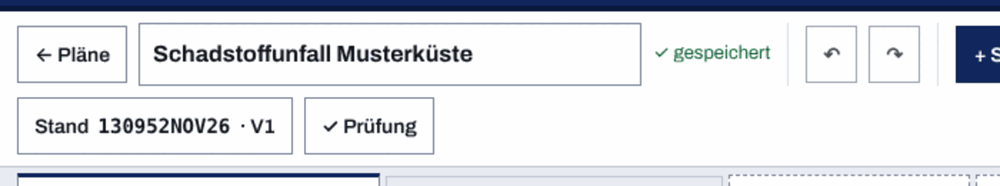
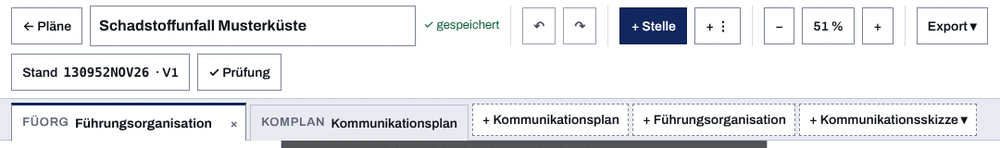
docs(audits): Review-Runde 1, Mobile UI und weitere Zwischenstände
Claude-Session: https://claude.ai/code/session_01ECm9xShsLqD6xfWouSXhNe

diff --git a/docs/audits/runde-1/feldtauglichkeit.md b/docs/audits/runde-1/feldtauglichkeit.md
@@ -1,0 +1,132 @@
+# Review-Runde 1: Feldtauglichkeit (Tablet in Führungsstelle und Führungsfahrzeug)
+
+- Reviewer-Skill: `thw-field-user-reviewer` (Kürzel FT)
+- Prüfgegenstand: komplan.app, main b37b468, lokal per vite preview
+- Datum: 2026-11-13
+- Viewports: iPad quer 1180×820 und iPad hoch 820×1180, jeweils `hasTouch`, deviceScaleFactor 1 (Chromium per Playwright). Touch-Gesten (Wischen, Zwei-Finger-Spreizen, Drei-Finger, langes Drücken, Ziehen) über CDP `Input.dispatchTouchEvent`. Modi Standard und Feld.
+- Durchgespielte Abläufe: Ablauf 1 (Vorlage „Schadstoffunfall an der Küste“, FüOrg ansehen, Stelle per Tippen wählen, Eigenschaften ansehen, Umhängen per Ziehen in der Gliederung, Kontextmenü), Ablauf 3 (Skizze „Fb Fü 77 Skizze 1“ über „+ Kommunikationsskizze ▾“, Zoomen, Schwenken, Element wählen und verschieben, Verbinder ziehen, Rückgängig). Ergänzend Quelltext gelesen (`src/app/zeichenflaeche.tsx`, `skizzen-flaeche.tsx`, `gliederung.tsx`, `editor.tsx`, `stil.css`), um Beobachtungen zu erklären.
+- Aufgaben erledigt: Ansehen FüOrg/Komplan **ja**; kleine Änderung an Stelle (Text, Kontakt) **ja**; Stelle umhängen, löschen, duplizieren per Touch **nein**; Skizze ansehen und bearbeiten per Touch **mit Schwierigkeiten** (Element verschieben ja, Blatt verschieben nein).
+- Mentales Modell des Helfers: „Wie eine Karten-App: mit einem Finger das Blatt schieben, mit zwei Fingern zoomen, lange drücken für mehr Möglichkeiten, Dinge mit dem Finger an eine andere Stelle ziehen.“ Die App ist dagegen auf Maus und Tastatur gebaut (Rechtsklick, Strg+Mausrad, Alt/Mittelklick zum Schwenken, Entf, HTML-Ziehen).
+
+Hinweis zur Belastbarkeit: Die Emulation ist Chromium, nicht Safari auf iPadOS. Wo das Verhalten auf echtem iPad abweichen kann, ist das beim Befund vermerkt („Nicht verifiziert“).
+
+## P0
+
+Keine. Hauptnutzung ist laut Auftrag Desktop; am Tablet bleibt Ansehen und Ändern von Texten und Kontakten möglich.
+
+## P1
+
+### FT-01 Skizzenblatt lässt sich per Touch nicht verschieben
+
+- **Evidenz:** Beobachtet
+- **Ansicht/Ablauf:** Reiter „Skizze“, Skizzenfläche (Ablauf 3), iPad quer und hoch
+- **Beobachtung:** Nach Vergrößern auf 100 % ist nur ein Ausschnitt des Blatts sichtbar. Ein-Finger-Wischen auf freier Fläche zieht einen Auswahlrahmen auf, Zwei- und Drei-Finger-Wischen bewirken nichts (`scrollLeft/scrollTop` bleiben 0). Wischen auf einem Element verschiebt das Element. Schwenken ist laut Code nur mit Mittelklick oder Alt+Linksklick möglich; die Fläche hat `touch-action: none`, Bildlaufleisten stehen nicht zur Verfügung (Breite 0).
+- **Auswirkung im Einsatz:** Wer auf dem Tablet in einer Skizze einen Kasten vergrößert betrachtet oder bearbeiten will, kommt an den Rest des Blatts nicht heran. Einziger Ausweg: wieder verkleinern (siehe FT-02). Versuche zu schwenken verschieben stattdessen versehentlich Elemente.
+- **Vorschlag:** Zwei-Finger-Wischen schwenkt immer; zusätzlich Ein-Finger-Wischen auf leerer Fläche schwenkt (Auswahlrahmen dann nur über eigenes Werkzeug oder langes Drücken). Alternativ sichtbare Schwenk-Schaltfläche („Hand“).
+- **Nachtest:** iPad, Skizze auf 100 %, rechten unteren Kasten erreichen, ohne dass ein Element seine Lage ändert.
+
+![Skizzenfläche im iPad quer bei 100 %](bilder/ft-01-skizzenflaeche.png)
+
+### FT-02 Kein Zoomen mit zwei Fingern; Zeichenblatt im Querformat sehr klein
+
+- **Evidenz:** Beobachtet
+- **Ansicht/Ablauf:** FüOrg-Zeichenfläche und Skizzenfläche, iPad quer
+- **Beobachtung:** Zwei-Finger-Spreizen ändert den Zoom nicht (bleibt 100 %), auf der FüOrg-Fläche verschiebt es stattdessen das Blatt; Browser-Zoom ist durch `touch-action: none` ebenfalls gesperrt (visualViewport.scale 1). Zoom geht nur über die Knöpfe −/+ (33×40 px). In der Skizze bleibt im iPad quer für das Blatt ein Bereich von 524×243 px; Kopf (88), Anzeige-Schalter, Werkzeugleiste (109, zwei Zeilen), Reiterleiste (85, zwei Zeilen) und Skizzen-Werkzeuge (245, vier Zeilen) belegen den Rest. „Einpassen“ (Tippen auf „51 %“) ergibt 34 %, dabei ist die Skizze nicht mehr lesbar.
+- **Auswirkung im Einsatz:** Ansehen einer Skizze auf dem Tablet im Fahrzeug ist mühsam: entweder unleserlich klein oder (wegen FT-01) nur ein fester Ausschnitt. Gerade das Zoomen mit zwei Fingern versucht jeder zuerst.
+- **Vorschlag:** Zwei-Finger-Zoom um den Fingermittelpunkt in beiden Flächen. Auf Tablets Skizzen-Werkzeuge einklappbar oder einzeilig mit Überlauf-Menü; Gliederung und Eigenschaften ausblendbar, damit das Blatt den Bildschirm nutzen kann.
+- **Nachtest:** iPad quer, Skizze 1 mit zwei Fingern auf lesbare Größe ziehen; sichtbarer Blattbereich mindestens etwa halbe Bildschirmhöhe.
+
+![Skizze eingepasst bei 34 %](bilder/ft-02-einpassen.png)
+
+### FT-03 Stelle löschen und duplizieren nur per Rechtsklick oder Taste
+
+- **Evidenz:** Beobachtet (Emulation); auf iPadOS-Safari wahrscheinlich, nicht verifiziert
+- **Ansicht/Ablauf:** FüOrg/Komplan, Stelle gewählt (Ablauf 1 und 5)
+- **Beobachtung:** „Unterstellte Stelle anlegen / Duplizieren / Kommunikationsskizze erzeugen / Löschen…“ gibt es nur im Kontextmenü der Zeichenfläche (Rechtsklick). Langes Drücken (1,2 s) auf eine Stelle öffnet in der Emulation kein Menü. In der Gliederung gibt es gar kein Kontextmenü. Im Eigenschaften-Bereich gibt es keinen Knopf „Stelle löschen“ oder „Duplizieren“ (alle Knöpfe geprüft, auch in aufgeklappten Gruppen). Die Hilfe unter der Gliederung nennt nur Tasten (Entf, Strg+D). Safari auf iPadOS löst bei langem Drücken nach meinem Kenntnisstand kein `contextmenu`-Ereignis aus.
+- **Auswirkung im Einsatz:** Am Tablet ohne Tastatur lässt sich eine falsch angelegte Stelle nicht entfernen. „Kommunikationsskizze erzeugen“ ist über „+ Kommunikationsskizze ▾ → Aus gewählter Stelle erzeugen“ erreichbar, Löschen und Duplizieren nicht.
+- **Vorschlag:** Sichtbare Knöpfe „Duplizieren“ und „Löschen…“ im Kopf der Stellen-Eigenschaften (gleiche Rückfrage wie heute); zusätzlich langes Drücken (ca. 500 ms) auf Stelle in Gliederung und Blatt öffnet das Kontextmenü.
+- **Nachtest:** iPad ohne Tastatur: Stelle mit Unterstellten löschen, Rückfrage beantworten, mit ↶ zurückholen.
+
+![Kontextmenü nur per Rechtsklick erreichbar](bilder/ft-03-kontextmenue.png)
+
+### FT-04 Umhängen per Ziehen in der Gliederung geht per Touch nicht
+
+- **Evidenz:** Beobachtet (Emulation); Verhalten auf iPadOS nicht verifiziert
+- **Ansicht/Ablauf:** Gliederung links, Ablauf 1 „umhängen per Ziehen“
+- **Beobachtung:** Die Gliederung nutzt HTML-Ziehen (`draggable`). Touch-Ziehen einer Zeile (mit und ohne 0,8 s Halten) auf eine andere Zeile ändert den Baum nicht; Wischen scrollt die Liste. Tastatur-Alternative Alt+↑/↓ verschiebt nur innerhalb der Geschwister, ein Wechsel der übergeordneten Stelle ist ohne Ziehen nicht möglich. Ebenso geht Ziehen einer Stelle aus der Gliederung auf die Skizzenfläche nur mit HTML-Ziehen (Ersatz über Werkzeug „Kasten“ vorhanden).
+- **Auswirkung im Einsatz:** Lageänderung (Einheit wechselt Abschnitt) kann am Tablet nicht nachgezogen werden, es sei denn Stelle neu anlegen und alte löschen, was wegen FT-03 auch nicht geht.
+- **Vorschlag:** Feld „Untersteht“ (Auswahlliste der möglichen übergeordneten Stellen) und Knöpfe „nach oben/unten“ in den Stellen-Eigenschaften; Touch-Ziehen erst nach langem Drücken mit deutlicher Zielmarkierung.
+- **Nachtest:** iPad: „EAL Heros Musterinsel 10“ unter „ELO Beispielkreis“ hängen, ohne Tastatur.
+
+## P2
+
+### FT-05 Ports und Griffe in der Skizze sind 6 bis 7 px groß
+
+- **Evidenz:** Beobachtet (Maße); Trefferquote auf iPad nicht verifiziert
+- **Ansicht/Ablauf:** Skizze, Element gewählt, Verbinder ziehen, Größe ändern
+- **Beobachtung:** Die vier Anschlusspunkte (Ports) messen 7×7 px, die acht Größengriffe 6×6 px, unabhängig vom Zoom und auch im Feld-Modus. Ports erscheinen nur bei Mausüberfahrt oder nach Auswahl. In Chromium traf ein 9 px daneben aufgesetzter Finger den Port trotzdem (Touch-Korrektur des Browsers); Safari korrigiert so nach meiner Kenntnis nicht. Daneben aufgesetzt verschiebt der Finger das Element statt einen Verbinder zu ziehen. Verbinder-Trefferfläche: 6 px.
+- **Auswirkung im Einsatz:** Verbinder setzen und Größe ändern mit dem Finger wird zum Zielspiel, Fehlgriffe verschieben Kästen.
+- **Vorschlag:** Bei Touch-Bedienung (pointerType „touch“) Trefferflächen für Ports, Griffe, Knick und Verbinder auf mindestens 32–44 px erweitern (unsichtbarer Rand reicht), sichtbare Punkte etwas größer.
+- **Nachtest:** iPad, zehn Verbinder zwischen Kästen ziehen; kein Element darf dabei ungewollt verschoben werden.
+
+### FT-06 Hochformat: Eigenschaften im unteren Drittel, Bildschirmtastatur verdeckt sie
+
+- **Evidenz:** Beobachtet (Lage); Tastatur wahrscheinlich, nicht verifiziert
+- **Ansicht/Ablauf:** iPad hoch, Stelle wählen, Kontakt oder Rufgruppe eintragen
+- **Beobachtung:** Die Seite selbst scrollt nicht (Dokument = 1180 px). Eigenschaften stehen in einem eigenen Rollbereich von 339 px Höhe ab y=841; nach Tippen auf eine Stelle sieht man nur Zeichen, Beschriftung und Nummer. „Erreichbarkeit“ und „Funk“ liegen weiter unten im kleinen Rollbereich. Wischen über die Zeichenfläche scrollt nichts (`touch-action: none`). Die iPad-Bildschirmtastatur im Hochformat ist etwa so hoch wie dieser Bereich.
+- **Auswirkung im Einsatz:** Beim Eintippen einer Telefonnummer ist das Feld voraussichtlich ganz oder teilweise verdeckt; man sieht nicht, was man tippt.
+- **Vorschlag:** Im Hochformat Eigenschaften als ausklappbares Blatt über größerer Höhe oder als eigene Ansicht; beim Fokussieren das Feld in den sichtbaren Bereich über der Tastatur bringen (visualViewport berücksichtigen).
+- **Nachtest:** Echtes iPad hoch, Telefonnummer bei einer Stelle eintragen; Feld und Eingabe bleiben sichtbar.
+
+![iPad hoch: Eigenschaften unten in 339 px](bilder/ft-04-hochformat.png)
+
+### FT-07 Bedienhinweise sprechen nur Tastatur und Maus an
+
+- **Evidenz:** Beobachtet
+- **Ansicht/Ablauf:** Gliederung (Tastenhilfe), Meldung nach Löschen, Titel der Knöpfe
+- **Beobachtung:** Tastenhilfe: „Einfg … Entf: löschen · Strg+D … Alt+↑/↓ … Ziehen: umhängen“. Nach dem Löschen: „Gelöscht. Strg+Z macht es rückgängig.“ Die Ausrichtungsknöpfe der Skizze (⇤ ↔ ⇥ ⤒ ↕ ⤓ ⋯ ⋮) erklären sich nur über `title`, also Mausüberfahrt; die Reiter lassen sich nur per Doppelklick umbenennen.
+- **Auswirkung im Einsatz:** Am Tablet ohne Tastatur wirken die Hinweise wie Bedienung, die es nicht gibt; die Symbolknöpfe sind ohne Maus nicht erklärbar.
+- **Vorschlag:** Hinweise geräteabhängig formulieren („↶ oben macht es rückgängig“); Symbolknöpfe mit Kurztext oder eine Gruppe „Ausrichten ▾“ mit beschrifteten Einträgen; Umbenennen auch über Eigenschaften („Name der Ansicht“ gibt es bei Skizzen schon).
+- **Nachtest:** Neue Nutzerin am Tablet richtet drei Kästen links aus und benennt eine Ansicht um, ohne Hilfe.
+
+### FT-08 Kleine Bedienelemente in Gliederung und Zoomleiste
+
+- **Evidenz:** Beobachtet
+- **Ansicht/Ablauf:** Gliederung, Werkzeugleiste, Reiterleiste
+- **Beobachtung:** Auf-/Zuklappen in der Gliederung 26×26 px, Zoom −/+ 33×40 px, Rückgängig/Wiederholen 36×40 px, Ausrichtungsknöpfe 24–37×36 px, „×“ zum Löschen einer Ansicht 25×38 px direkt am aktiven Reiter (mit Rückfrage). Im Feld-Modus wachsen Text-Knöpfe auf 40 px Höhe, die genannten bleiben klein.
+- **Auswirkung im Einsatz:** Im fahrenden Fahrzeug oder mit kalten Fingern Fehltipper, besonders zwischen Reiter und „×“ und bei −/+.
+- **Vorschlag:** Mindestens 44×44 px Trefferfläche für alle Bedienelemente bei Touch (Medienabfrage `pointer: coarse`), auch außerhalb des Feld-Modus.
+- **Nachtest:** Maße unter `pointer: coarse` messen.
+
+## P3
+
+### FT-09 Kontextmenü schließt nur per Maus-Verlassen oder Tippen daneben, „51 %“ ist ein versteckter Einpassen-Knopf
+
+- **Evidenz:** Beobachtet
+- **Ansicht/Ablauf:** FüOrg-Zeichenfläche
+- **Beobachtung:** Das Kontextmenü (wo erreichbar, z. B. iPad mit Trackpad) schließt bei `mouseleave`, Tippen daneben schließt es ebenfalls; es wird an Klickposition `fixed` gesetzt und kann am rechten Rand im Hochformat über den Bildschirm hinausragen (Code, nicht nachgestellt). Der Zoom-Anzeigewert „51 %“ ist zugleich der Knopf „Auf Fläche einpassen“, nur per `title` erklärt.
+- **Auswirkung im Einsatz:** Geringe Verwirrung; Einpassen wird am Tablet kaum gefunden.
+- **Vorschlag:** Menü an Bildschirmrand begrenzen; Einpassen-Knopf beschriften („Ganzes Blatt“).
+- **Nachtest:** Rechtsklick auf Stelle ganz rechts im Hochformat; neue Nutzer finden „Ganzes Blatt“.
+
+## Was gut funktioniert
+
+- Ein-Finger-Wischen auf der FüOrg-Zeichenfläche verschiebt das Blatt; Tippen auf eine Stelle wählt sie und markiert sie in Gliederung und Blatt. Nicht beim Umbau entfernen.
+- Kasten in der Skizze lässt sich per Finger verschieben, mit ↶ zurücknehmen; Rasterfang hilft bei grober Fingerbedienung.
+- „+ Kommunikationsskizze ▾ → Aus gewählter Stelle erzeugen“ ist ein touch-tauglicher Weg zur Skizze.
+- Kontaktfelder haben `inputMode` tel/email, das iPad zeigt damit die Zifferntastatur.
+- Speicherstand „✓ gespeichert“ ist neben dem Plannamen immer sichtbar; Löschen fragt bei Unterstellten nach.
+
+## Comprehension check (Tablet)
+
+- Orientierung: verstanden
+- Nächste Aktion: unsicher (Löschen, Umhängen, Schwenken ohne sichtbaren Weg)
+- Systemstatus: verstanden
+- Fehlerbehebung: unsicher (Rückgängig-Knopf vorhanden, Hinweis nennt Strg+Z)
+- Feldtauglichkeit: eingeschränkt
+
+## Nicht geprüft
+
+- Echte Geräte: Safari auf iPadOS (Kontextmenü bei langem Drücken, HTML-Ziehen, Touch-Korrektur), echte Bildschirmtastatur, Apple Pencil, Hardware-Tastatur am iPad.
+- Handschuhbedienung, Sonnenlicht und Vibration im Fahrzeug.
+- Teil-Link, Export und Druck am Tablet (Datei-Download in Safari).

diff --git a/docs/audits/runde-1/mobile-ui.md b/docs/audits/runde-1/mobile-ui.md
@@ -1,0 +1,110 @@
+# Review-Runde 1: Mobile UI (Telefon und Tablet, Ansehen und Export)
+
+- **Reviewer-Skill:** mobile-ui-reviewer (Kürzel MU)
+- **Prüfgegenstand:** komplan.app, main b37b468, lokal per vite preview
+- **Datum:** 2026-11-13
+- **Modus:** Prüfung der laufenden Website mit Playwright/Chromium, Touch-Gesten per CDP (`Input.dispatchTouchEvent`), dazu Belege aus dem CSS und den Komponenten
+- **Viewports:** Telefon 390×844 (Schwerpunkt), 320×640, Telefon quer 844×390, iPad hoch 820×1180; Basis-Screenshots für iPad quer und Desktop zum Vergleich. Modi: Standard, Nacht (Stichprobe)
+- **Durchgespielte Abläufe:** Startseite und Planliste; Plan aus den Vorlagen „Schadstoffunfall“ und „Fb Fü 76“ öffnen; Organigramm, Formular (Fb Fü 76) und Skizze (Fb Fü 77) ansehen, zoomen (Knöpfe, Einpassen, Pinch) und verschieben (Ein-Finger-Ziehen); Exportmenü, PDF-Dialog, Stände-Dialog, Prüfung; Teil-Link erzeugen und in einem neuen Telefon-Kontext öffnen
+- **Grenzen:** Kein echtes iOS/Safari. Bildschirmtastatur, Download-Verhalten mobiler Browser und Safe-Area-Ränder (Notch, Home-Indikator) lassen sich in Chromium nicht nachstellen. Diese Punkte sind aus dem Code begründet und unten so gekennzeichnet.
+
+Gewichtung nach BRIEF: Auf dem Telefon wird nur angesehen und exportiert, das Tablet muss bedienbar sein.
+
+## P0
+
+Keine Befunde.
+
+## P1
+
+### MU-01 Am Telefon bleiben für das Blatt nur etwa 90–110 px Höhe
+- **Ansicht/Ablauf:** Editor, alle Ansichten, Telefon 390×844 (hoch und quer)
+- **Beobachtung:** Die Seite selbst scrollt nicht (`scrollHeight` = 844). Kopf mit Anzeige-Schalter (121 px), Hinweis „auf diesem Gerät gespeichert“ (75 px, bis man ihn ausblendet), Werkzeugleiste (253 px) und Reiterleiste (ca. 160 px, bei 4 Ansichten über 200 px) nehmen zusammen gut 600 px ein. Den Rest teilt das Raster `30% / 1fr / 35%` (stil.css, `@media (max-width: 44rem)`) auf drei Bereiche auf, die jeder für sich scrollen: Gliederung 70–92 px, **Blatt 82–108 px**, Eigenschaften 82–108 px (Eigenschaften: Inhalt 1849 px hoch, sichtbar 94 px). Im Querformat 844×390 bleiben für das Blatt etwa 65 px. Bei 61 % Zoom sieht man vom Fb-Fü-76-Formular nur den Kopfstreifen.
+- **Auswirkung im Einsatz:** Gerade das Ansehen, die einzige Aufgabe am Telefon, klappt praktisch nicht. Wer unterwegs eine Rufgruppe oder Nummer im Plan nachschlagen will, schiebt das Blatt in einem Schlitz von gut 2 cm hin und her. Drei kleine Scrollbereiche übereinander machen außerdem leicht den falschen Wisch: Man scrollt ungewollt in Gliederung oder Eigenschaften statt im Blatt.
+- **Vorschlag:** Am Telefon einen eigenen Ansichtsmodus vorsehen: Das Blatt nimmt fast die ganze Höhe ein, Gliederung und Eigenschaften öffnen sich bei Bedarf als Schublade oder Unterseite, die Werkzeugleiste schrumpft auf „← Pläne“, Zoom und Export, die Bearbeitungsknöpfe verschwinden oder wandern ins Menü. Der Kopf mit den Modus-Knöpfen wird einzeilig.
+- **Prüfung der Behebung:** Bei 390×844 und 844×390 ist die Blattfläche mindestens etwa 60 % der Höhe hoch.
+
+![Telefon: Blatt in einem schmalen Streifen](bilder/mu-01-blatt-telefon.png)
+
+### MU-02 Kommunikationsskizze ist am Telefon gar nicht zu sehen
+- **Ansicht/Ablauf:** Reiter „Skizze …“ (Vorlage Fb Fü 76), Telefon 390×844, 320×640 und quer
+- **Beobachtung:** Über dem Blatt liegen noch die Skizzen-Werkzeuge (Stelle, Kasten, Zeichen, Anschluss, Gerät, Verbinderfarben, Ausrichten …, etwa 5 Zeilen). Die `.skizzen-flaeche` ist danach nur 32 px hoch und beginnt bei y = 900 (bei 320×640 bei y = 1105), liegt also ganz außerhalb des Bildschirms. Weil die Seite nicht scrollt, kommt man auch nicht hin.
+- **Auswirkung im Einsatz:** Die Skizze lässt sich am Telefon weder ansehen noch prüfen. Es bleibt nur der Weg über PDF exportieren und dann außerhalb der App öffnen.
+- **Vorschlag:** Die Skizzen-Werkzeuge am Telefon (und auf schmalen Breiten allgemein) standardmäßig einklappen oder ganz ausblenden; auf jeden Fall die Fläche vor die Werkzeuge stellen. Siehe MU-01.
+- **Prüfung der Behebung:** Bei 390×844 ist `.skizzen-flaeche` sichtbar und mindestens etwa 400 px hoch.
+
+![Telefon: Skizze nur Werkzeuge, keine Fläche](bilder/mu-02-skizze-telefon.png)
+
+## P2
+
+### MU-03 Prüfungs-Popup ragt am Telefon links aus dem Bild
+- **Ansicht/Ablauf:** Knopf „✓ Prüfung“ bzw. „Hinweis“, Telefon 390×844
+- **Beobachtung:** Die `.hinweis-liste` beginnt bei x = −47 px. Der linke Rand der Hinweise ist abgeschnitten („eise blockieren nichts“, das Symbol vor jeder Zeile fehlt). Auf dem Tablet sitzt sie richtig.
+- **Auswirkung im Einsatz:** Gerade die Warnungen (fehlende Verbindung, abgelaufene Kontakte) liest man nur bruchstückhaft.
+- **Vorschlag:** Popup am Rand des Viewports festhalten, am Telefon als volle Breite oder als Dialog von unten zeigen.
+
+![Telefon: Prüfung links abgeschnitten](bilder/mu-03-pruefung-abgeschnitten.png)
+
+### MU-04 Im Querformat liegen der PDF-Download und das Exportmenü unter dem Bildschirmrand
+- **Ansicht/Ablauf:** Export ▾ und PDF-Dialog, Telefon quer 844×390
+- **Beobachtung:** Das Exportmenü reicht bis y = 561 bei 390 px Bildhöhe, „Drucken“ und „Als Link teilen…“ sind zunächst nicht zu sehen. Der PDF-Dialog ist 358 px hoch, der Fuß mit „PDF herunterladen“ liegt bei y = 513–583, also erst nach Scrollen im Dialog. Die vorhandenen `max-height: 30rem`-Regeln betreffen nur andere Seitenteile (Sprungleiste, Vorschau), nicht Editor-Menüs und Dialoge.
+- **Auswirkung im Einsatz:** Der Export ist am Telefon die zweite Hauptaufgabe, aber die Hauptaktion bleibt unsichtbar. Ob sich der Dialog scrollen lässt, sieht man nicht.
+- **Vorschlag:** Den Dialogfuß bei geringer Höhe festhalten (Inhalt scrollt, Fuß bleibt stehen). Das Menü auf die verfügbare Höhe begrenzen und darin scrollen lassen, oder es nach oben öffnen.
+
+![Telefon quer: PDF-Dialog ohne sichtbaren Download-Knopf](bilder/mu-05-pdf-dialog-quer.png)
+
+### MU-05 Teil-Link lässt sich am Telefon nur durch Übernehmen ansehen
+- **Ansicht/Ablauf:** Teil-Link (`#p=…`, 5,1 kB) in frischem Telefon-Kontext öffnen
+- **Beobachtung:** Die Seite nennt nur Name, Stand, Zahl der Stellen und Ansichten. Ansehen geht erst über „Plan übernehmen und öffnen“, also nur als Kopie in IndexedDB. Der Hinweis sagt selbst, man solle sie „auf fremden Geräten danach wieder löschen“. Dazu schiebt der Hinweis „auf diesem Gerät gespeichert“ die Karte nach unten.
+- **Auswirkung im Einsatz:** Wer einen Link nur zum Nachschlagen aufs Telefon bekommt, muss den Plan samt Kontaktdaten dauerhaft speichern. Anschließend landet er im Editor mit den Platzproblemen aus MU-01. Auf geliehenen oder privaten Geräten bleiben so leicht VS-NfD-Daten liegen. (Annahme: Teil-Links werden auch an Leute geschickt, die nur lesen.)
+- **Vorschlag:** „Nur ansehen“ als eigene, gleichwertige Aktion anbieten: das Blatt im Vollbild aus dem Link rendern, ohne zu speichern, mit Export/PDF. „Übernehmen“ bleibt als zweite Aktion.
+
+![Telefon: Teil-Link nur mit Übernehmen](bilder/mu-06-teillink-telefon.png)
+
+### MU-06 Telefon quer: der Kopf frisst die Höhe
+- **Ansicht/Ablauf:** Editor, 844×390
+- **Beobachtung:** Kopf (ca. 88 px), Speicherhinweis, zwei Zeilen Werkzeugleiste und zwei Zeilen Reiter belegen ungefähr 280 px von 390. Das Blatt ist ein Streifen von etwa 65 px, darunter beginnt schon „Plan“ (Eigenschaften).
+- **Auswirkung im Einsatz:** Das Querformat, in dem man ein breites Organigramm oder Formular natürlicherweise ansieht, bringt keinen Gewinn.
+- **Vorschlag:** Bei `max-height` von etwa 30rem den Kopf ausblenden oder auf eine Zeile verkleinern, die Reiter in eine einzeilige, waagrecht scrollende Leiste legen und Gliederung/Eigenschaften ausblenden (wie MU-01).
+
+![Telefon quer: Blatt als schmaler Streifen](bilder/mu-04-telefon-quer.png)
+
+### MU-07 Safe Areas: `viewport-fit=cover` ohne `env(safe-area-inset-*)`
+- **Ansicht/Ablauf:** alle Seiten; als PWA im Vollbild bzw. im Querformat auf Telefonen mit Notch
+- **Beobachtung (Code):** `index.html` setzt `viewport-fit=cover`, aber in `src/` steht nirgends `env(safe-area-inset-…)`. Die Kurzmeldung ist `position: fixed; bottom: var(--r-4)`, Kopf und Werkzeugleiste beginnen direkt am Rand. In Chromium nicht nachstellbar: **muss auf einem echten Gerät geprüft werden.**
+- **Auswirkung im Einsatz:** Auf iPhones im Querformat können „← Pläne“ und die linke Gliederung unter der Notch liegen; die Kurzmeldung (z. B. „Gespeichert“, Fehler) kann vom Home-Indikator verdeckt sein.
+- **Vorschlag:** Entweder `viewport-fit=cover` weglassen oder Kopf, Seitenränder und fixe Elemente mit `env(safe-area-inset-*)` polstern.
+
+### MU-08 Tablet hoch: Blatt nur mittelgroß, die Skizze hat wenig Fläche
+- **Ansicht/Ablauf:** iPad 820×1180, FüOrg und Skizze
+- **Beobachtung:** Ab ≤ 72rem stehen die Eigenschaften fest mit 40 % unter dem Blatt (359 px), die Gliederung links mit 256 px. Für das Organigramm bleiben 564×539 px; das geht gerade so. In der Skizze nehmen die Werkzeuge rund 245 px über der Fläche ein, die Fläche selbst ist nur 294 px hoch. Gliederung und Eigenschaften lassen sich nicht einklappen.
+- **Auswirkung im Einsatz:** Auf dem Tablet bedient man noch, muss aber laufend zoomen und verschieben; die Skizze sieht man immer nur in Ausschnitten.
+- **Vorschlag:** Gliederung und Eigenschaften zum Einklappen machen, oder einen Knopf „Blatt groß“ anbieten. Die Skizzen-Werkzeuge in eine Zeile mit Überlaufmenü legen.
+
+## P3
+
+### MU-09 Kleine Touchziele neben häufig getippten Elementen
+- **Ansicht/Ablauf:** Reiterleiste, Gliederung, Werkzeugleiste (Telefon)
+- **Beobachtung:** Das „×“ zum Löschen einer Ansicht ist 25×38 px und sitzt direkt am Reiter; die Aufklapp-Dreiecke der Gliederung (`.gl-klapp`) sind 26×26 px; Rückgängig/Wiederholen sind 36×40 px. Das Löschen der Ansicht fragt immerhin nach.
+- **Auswirkung im Einsatz:** Beim Reiterwechsel auf dem Telefon öffnet man leicht die Löschfrage, und Äste klappt man mühsam auf.
+- **Vorschlag:** Das „×“ nur am aktiven Reiter zeigen oder ins Ansichtsmenü verlegen; die Aufklapp-Fläche auf die ganze Zeilenhöhe von 40 px vergrößern.
+
+### MU-10 Reiterleiste bricht am Telefon in viele Zeilen um
+- **Ansicht/Ablauf:** Editor, Telefon, Plan mit 4 Ansichten
+- **Beobachtung:** Jeder Reiter steht in einer eigenen Zeile, dazu kommen drei gestrichelte „+ …“-Knöpfe in zwei weiteren Zeilen. Fünf Zeilen, rund 200 px, nur für die Navigation.
+- **Vorschlag:** Am Telefon eine einzeilige, waagrecht scrollende Reiterleiste oder eine Auswahlliste nehmen; die „+ …“-Knöpfe in ein Menü legen (am Telefon wird ohnehin nicht angelegt).
+
+### MU-11 Eigenschaften am Telefon sind sofort bearbeitbar
+- **Ansicht/Ablauf:** Eigenschaften-Bereich beim Ansehen
+- **Beobachtung:** Unter dem Blatt stehen aktive Eingabefelder (Name, Stand, DTG, Organisation …), auf dem Telefon in einem 94 px hohen Scrollbereich. Ein Tipp beim Wischen setzt den Fokus und öffnet die Tastatur. Tastatur selbst nicht emuliert.
+- **Vorschlag:** Am Telefon die Eigenschaften nur lesend zeigen, oder als Teil des Ansichtsmodus aus MU-01 ausblenden.
+
+## Was gut funktioniert
+- An keiner Stelle scrollt die Seite waagrecht, auch nicht bei 320 px (`scrollWidth` = Viewportbreite).
+- Das Blatt lässt sich mit einem Finger verschieben, und „Einpassen“ (Klick auf die Prozentanzeige) holt es zuverlässig zurück. Pinch zoomt in Chromium das Blatt und nicht die Seite.
+- Hochformat-Dialoge (PDF, Stände, Link teilen) passen auf 390×844, haben große Optionsfelder, einen 44-px-Schließknopf und Eingaben in 16 px (also kein Auto-Zoom).
+- Startseite und Planliste stapeln sauber, die Hauptaktion „Neuer Plan“ steht über dem Falz, und die Anzeige-Knöpfe sind 44 px hoch mit Abstand zueinander.
+
+## Nicht geprüft
+- Echtes iOS Safari und Android Chrome: Pinch auf `touch-action: none`, Download von PDF/PPTX, Safe Areas, Bildschirmtastatur
+- Bearbeiten am Telefon (laut Nutzungssituation nicht vorgesehen) und Ziehen/Umhängen auf dem Tablet
+- Dunkel- und Feldmodus nur über die Basis-Screenshots
